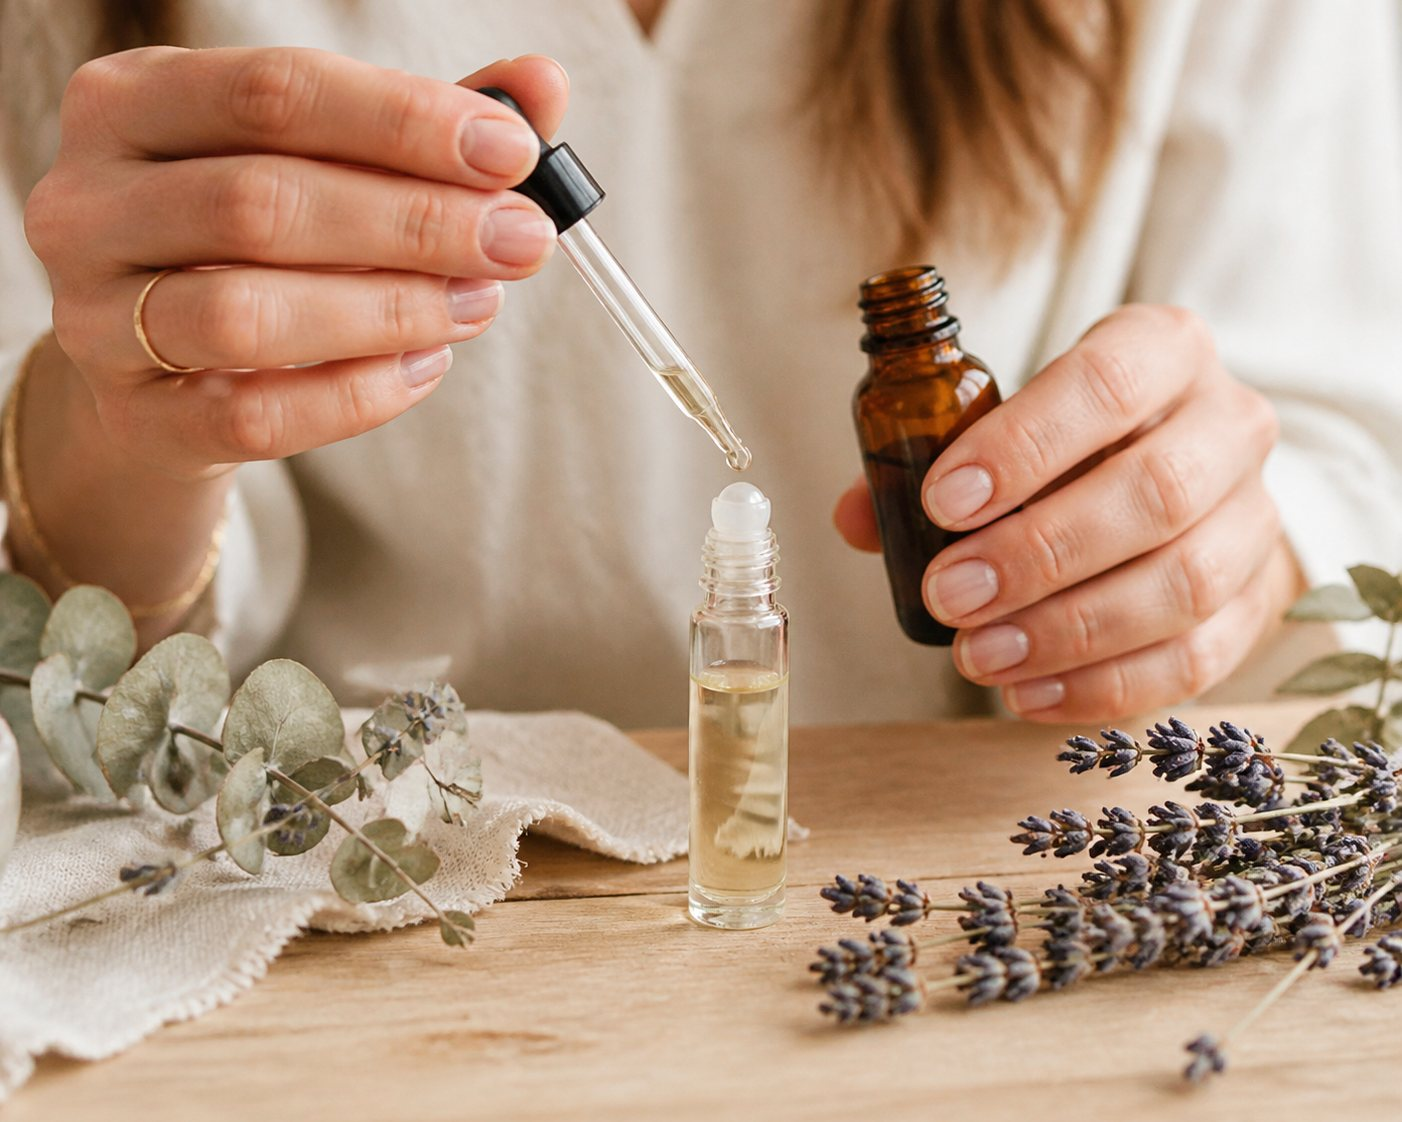
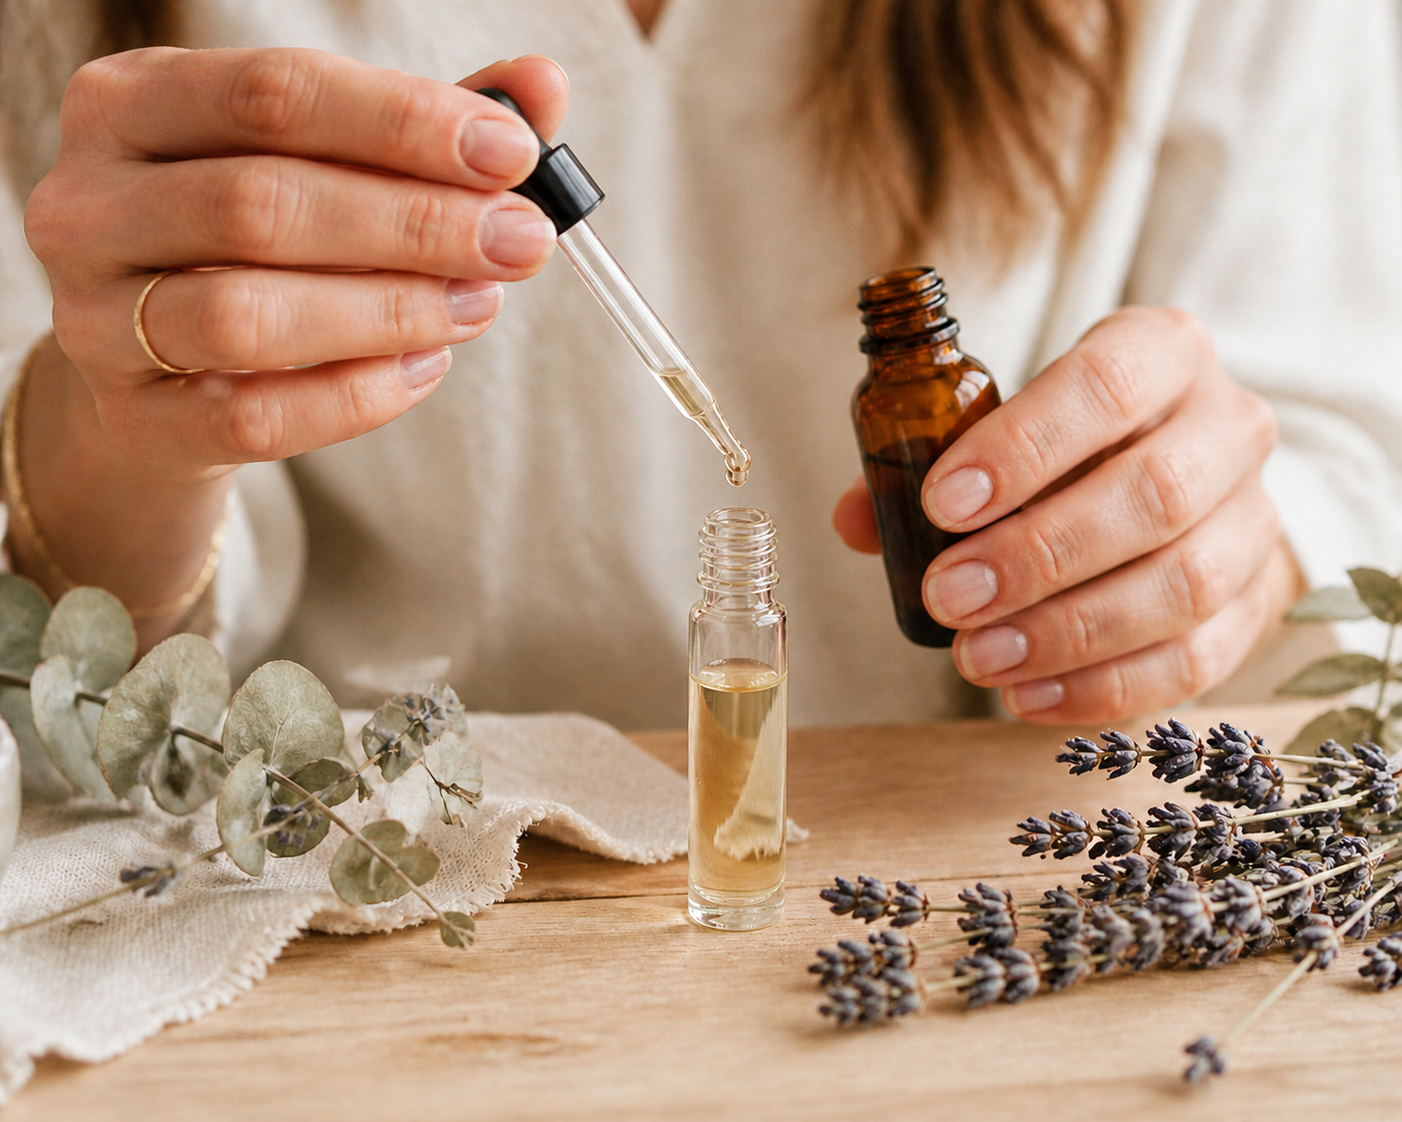
롤온 병 입구의 롤러볼·인서트 제거한 블렌딩 사진으로 교체, 이름 표기를 '박정연 (활동명:진주쌤)'으로 통일

diff --git a/index.html b/index.html
@@ -3,8 +3,8 @@
 <head>
 <meta charset="utf-8" />
 <meta name="viewport" content="width=device-width, initial-scale=1" />
-<title>진주쌤의 아로마 향기살롱 — 박정연(진주쌤) 아로마 강연·클래스</title>
-<meta name="description" content="진주쌤의 아로마 향기살롱 · 향기는 사랑입니다. 박정연(진주쌤)의 아로마테라피 강연·클래스로, 전열기기·화기 없이 시향과 롤온 블렌딩으로 진행하는 원데이 클래스, 기관·기업 특강, 향기 인문학 과정, 기질·심리 분석 기반 심화 블렌딩 과정과 1:1 맞춤 클래스. 서울 전 지역으로 출강합니다." />
+<title>진주쌤의 아로마 향기살롱 — 박정연 (활동명:진주쌤) 아로마 강연·클래스</title>
+<meta name="description" content="진주쌤의 아로마 향기살롱 · 향기는 사랑입니다. 박정연 (활동명:진주쌤)의 아로마테라피 강연·클래스로, 전열기기·화기 없이 시향과 롤온 블렌딩으로 진행하는 원데이 클래스, 기관·기업 특강, 향기 인문학 과정, 기질·심리 분석 기반 심화 블렌딩 과정과 1:1 맞춤 클래스. 서울 전 지역으로 출강합니다." />
 <meta name="author" content="박정연" />
 <meta name="theme-color" content="#EEF4F1" />
 <link rel="canonical" href="https://ziontree0910a-ship-it.github.io/aroma-landing/" />
@@ -631,7 +631,7 @@
           </div>
         </div>
         <figcaption>
-          <span>박정연 · 진주쌤</span>
+          <span>박정연 (활동명:진주쌤)</span>
           <span>AROMATHERAPY</span>
         </figcaption>
       </figure>
@@ -682,7 +682,7 @@
           <ul class="creds">
             <li>
               <span class="k">이름</span>
-              <span><b>박정연</b> · 활동명 <b>진주쌤</b></span>
+              <span><b>박정연 (활동명:진주쌤)</b></span>
             </li>
             <li>
               <span class="k">자격</span>
@@ -1103,7 +1103,7 @@
       </div>
 
       <aside class="contact-card">
-        <div class="who">박정연 <span style="font-family:var(--sans);font-size:14px;color:var(--muted)">(진주쌤)</span></div>
+        <div class="who">박정연 <span style="font-family:var(--sans);font-size:14px;color:var(--muted)">(활동명:진주쌤)</span></div>
         <div class="brand-sub">진주쌤의 아로마 향기살롱 · JINJU AROMA SALON</div>
         <div class="role">Aromatherapy Instructor</div>
         <p>향기를 매개로 사람과 일상을 돌보는 수업을 만듭니다. 작은 모임부터 기관 강연까지, 규모에 맞춰 준비합니다.</p>
@@ -1144,7 +1144,7 @@
 <footer>
   <div class="wrap foot-in">
     <span class="foot-brand">진주쌤의 아로마 향기살롱 <span style="font-family:var(--sans);font-size:11px;letter-spacing:.14em;color:rgba(226,238,233,.46)">JINJU AROMA SALON</span></span>
-    <span>박정연 (진주쌤) · 아로마테라피 강사 · 서울 전 지역 출강</span>
+    <span>박정연 (활동명:진주쌤) · 아로마테라피 강사 · 서울 전 지역 출강</span>
     <span>© 2026 진주쌤의 아로마 향기살롱</span>
   </div>
 </footer>
